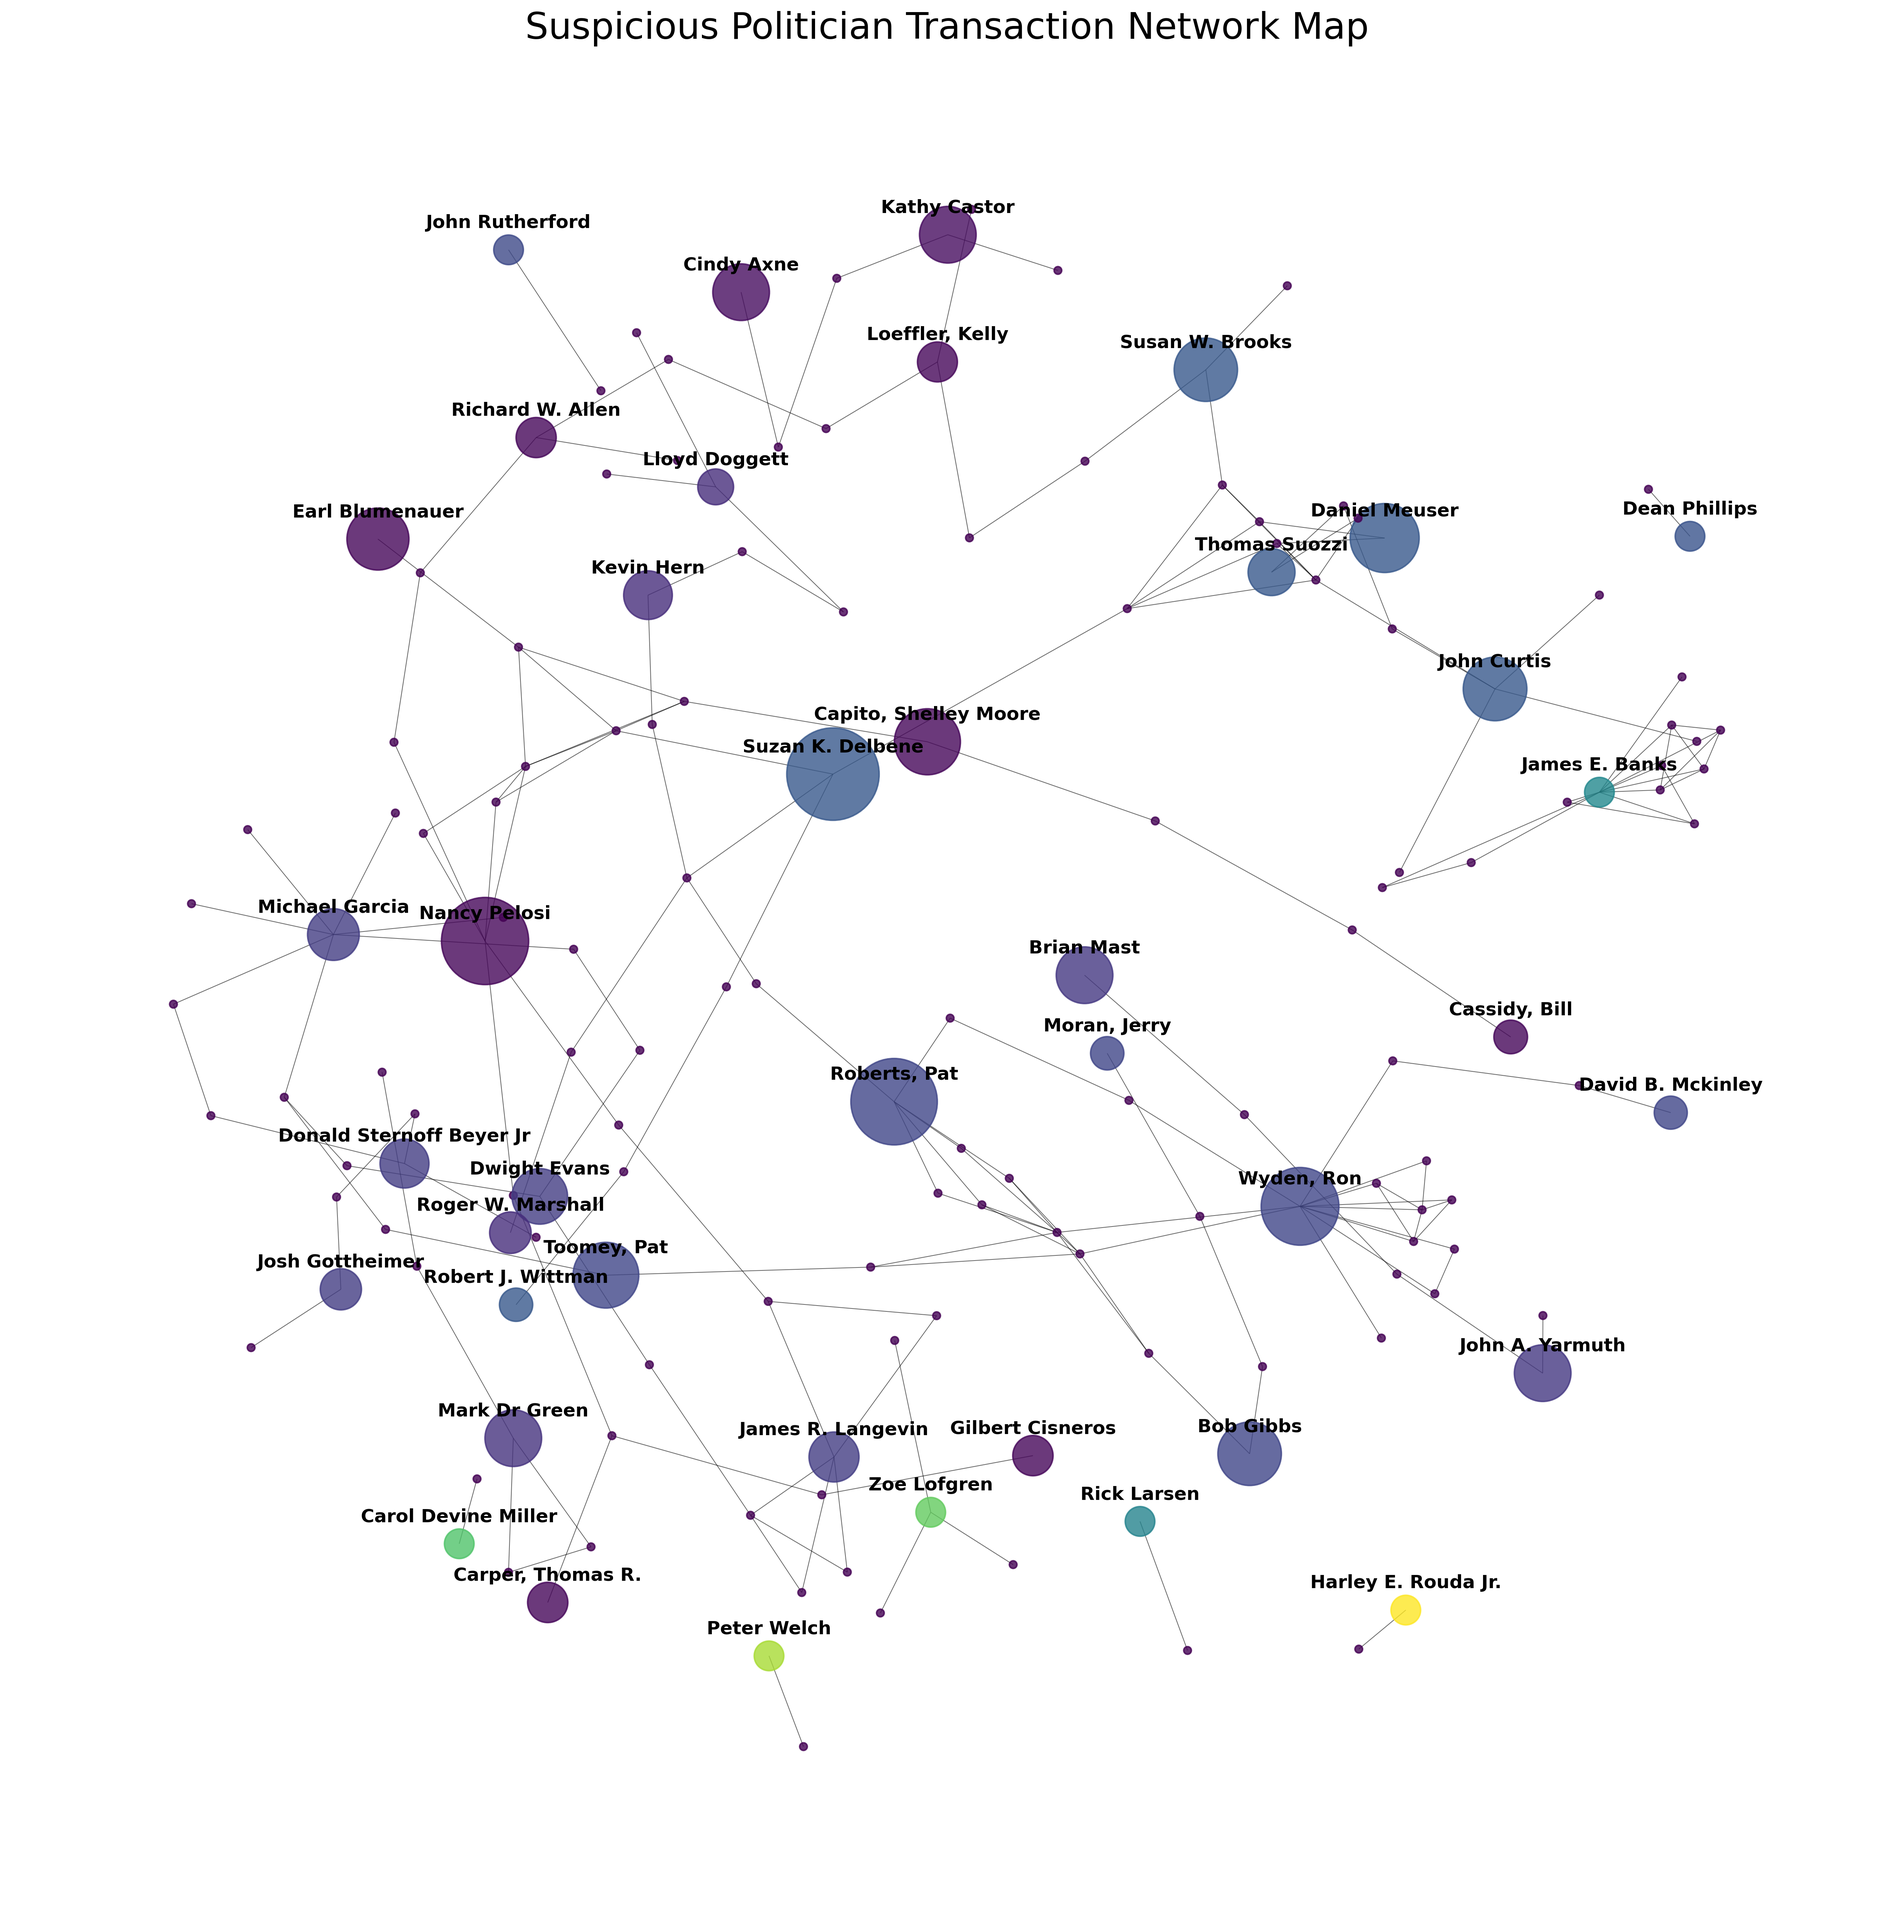
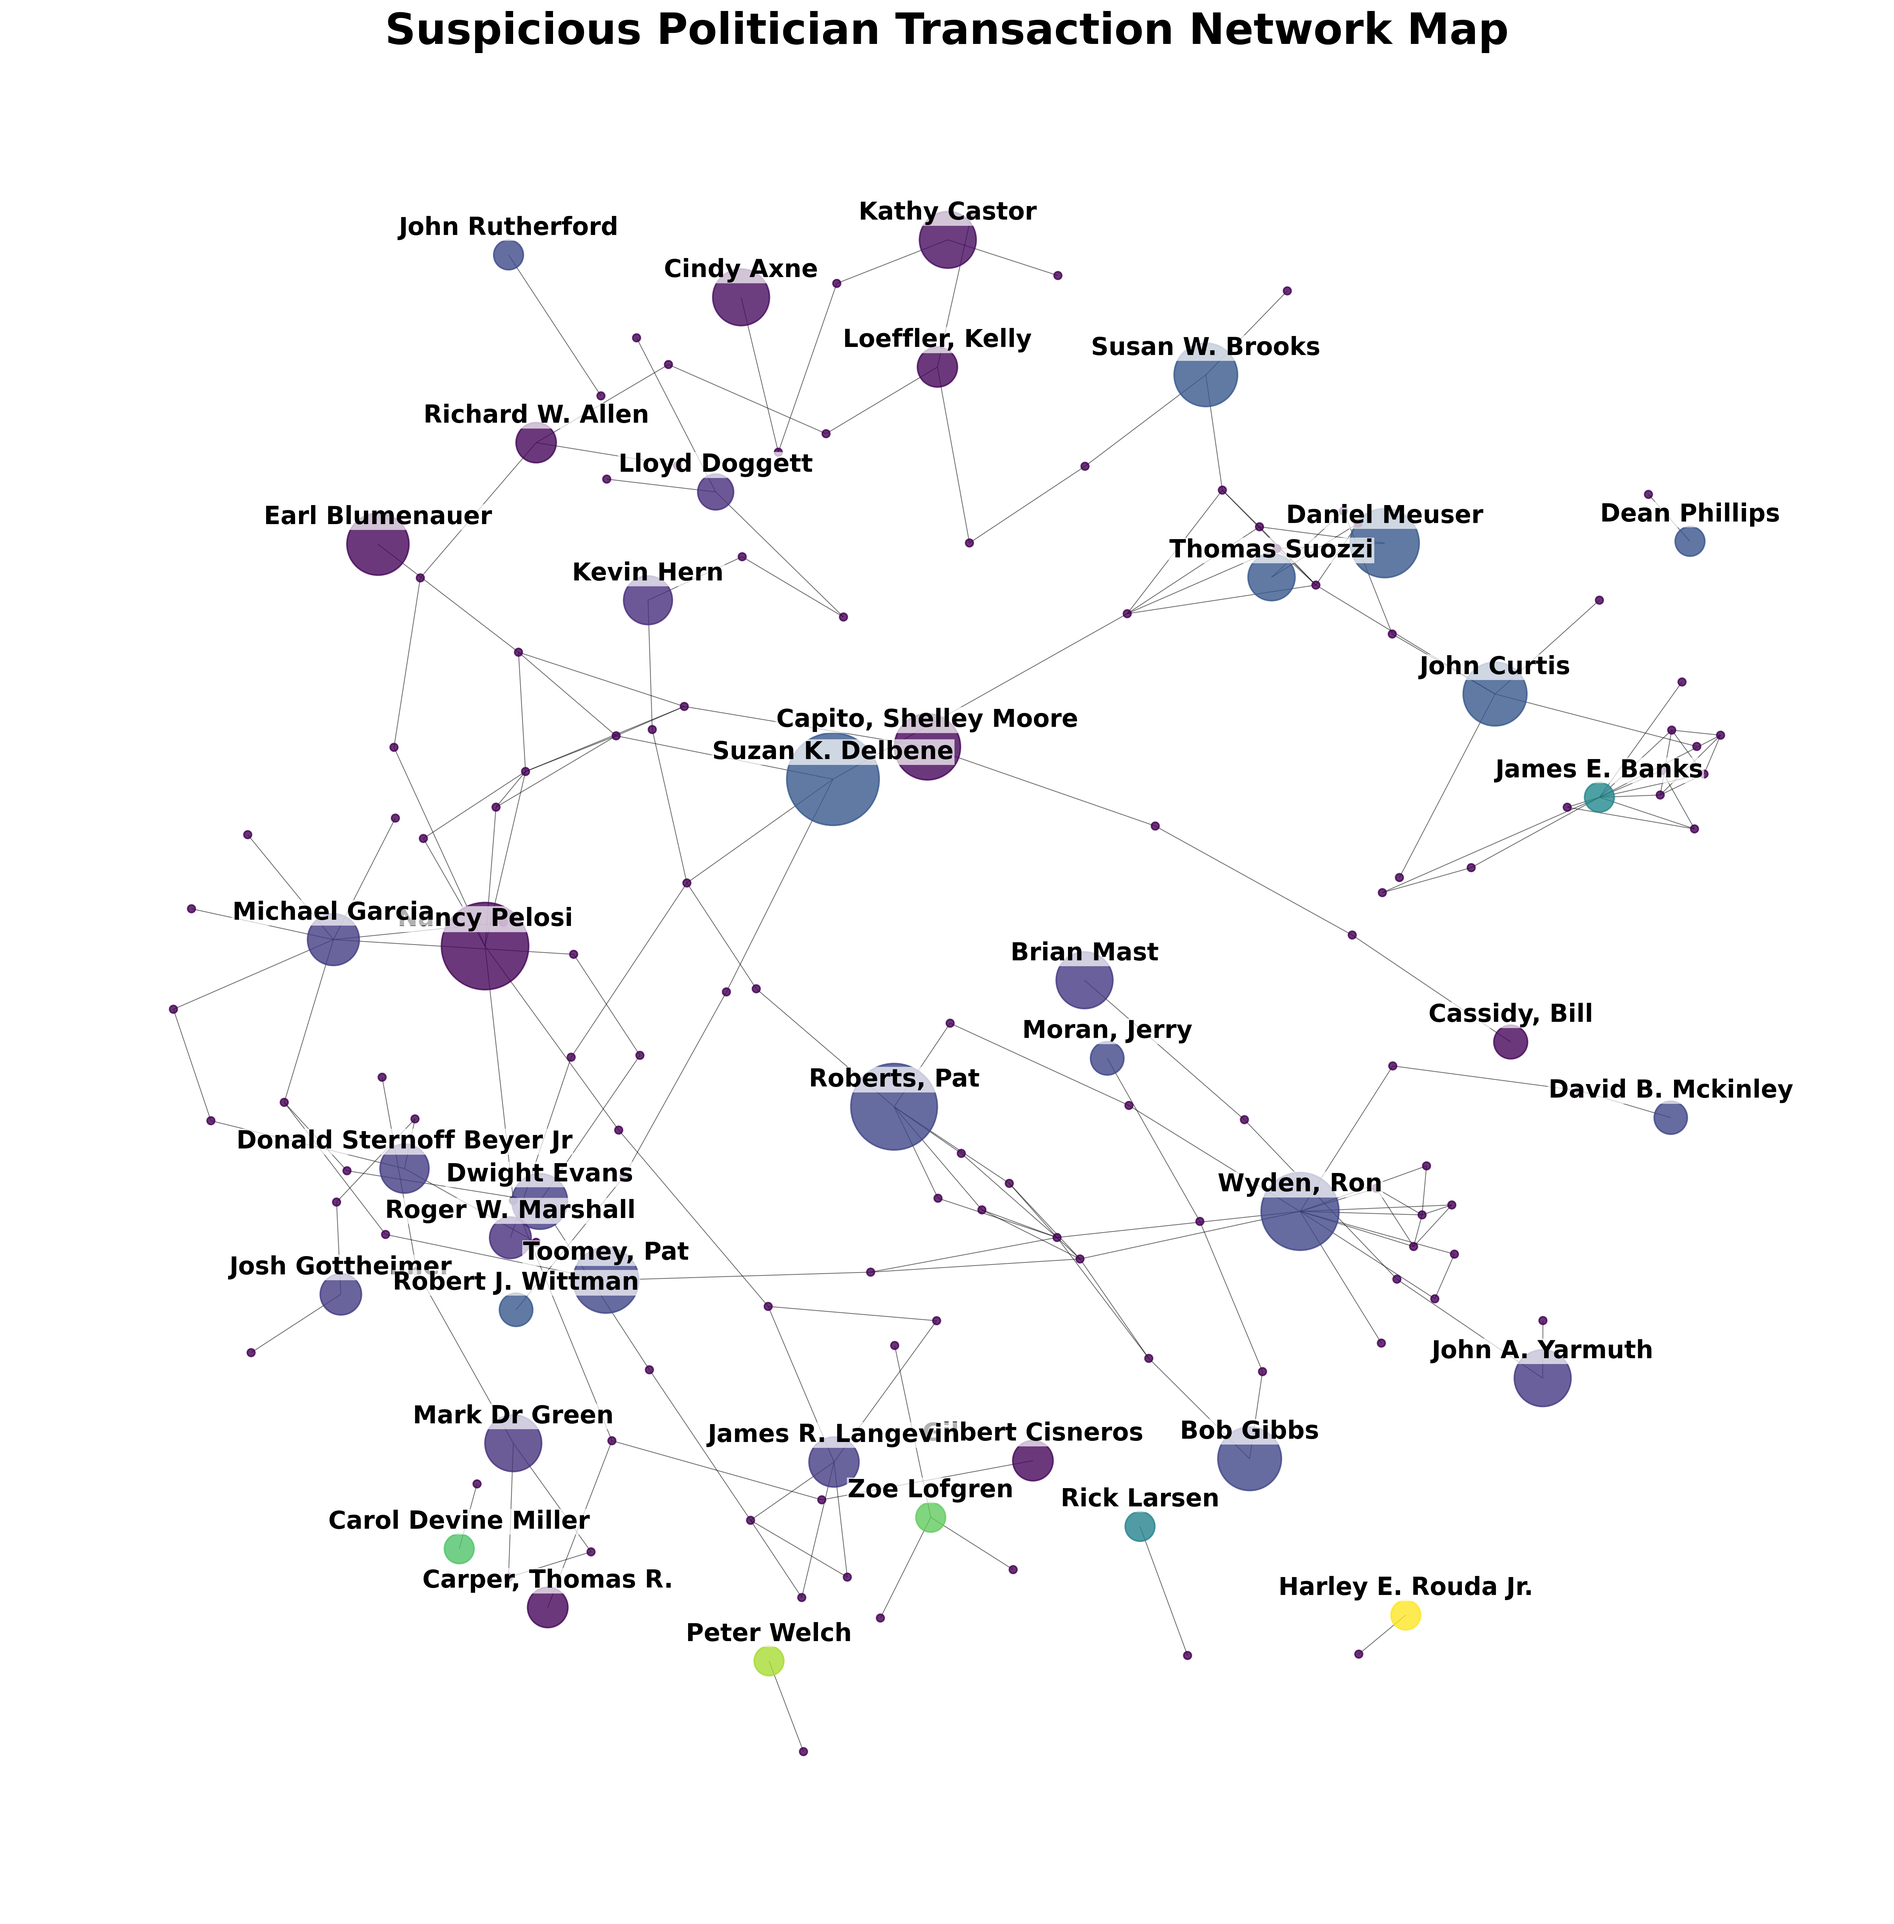
WIP

diff --git a/final/suspicious_transactions_network/suspicious_transactions_network_plots.py b/final/suspicious_transactions_network/suspicious_transactions_network_plots.py
@@ -41,8 +41,6 @@ def plot_full_network(G):
         for s, t in zip(pagerank_scores, node_types)
     ]
 
-    # --- EDGES MADE MUCH DARKER ---
-    # Increased alpha to 0.6 and changed color to black for high contrast.
     nx.draw_networkx_edges(H, pos, alpha=0.6, edge_color='black', width=0.5)
 
     politician_nodes = [n for n, d in H.nodes(data=True) if d.get('type') == 'politician']
@@ -53,13 +51,14 @@ def plot_full_network(G):
                            node_size=node_sizes, alpha=0.8)
 
     labels = {n: n for n in politician_nodes}
-
     label_pos = {k: (v[0], v[1] + 0.035) for k, v in pos.items()}
 
-    nx.draw_networkx_labels(H, label_pos, labels=labels, font_size=12,
-                            font_weight='bold')
+    # --- TEXT BIGGER, BOLDER, AND WITH BACKGROUND ---
+    nx.draw_networkx_labels(H, label_pos, labels=labels, font_size=16,
+                            font_weight='bold',
+                            bbox=dict(facecolor='white', edgecolor='none', alpha=0.7, pad=0.5))
 
-    plt.title("Suspicious Politician Transaction Network Map", fontsize=24)
+    plt.title("Suspicious Politician Transaction Network Map", fontsize=28, fontweight='bold')
     plt.axis('off')
 
     output_path = os.path.join(PLOTS_DIR, "suspicious_full_network_map.png")
@@ -93,10 +92,18 @@ def plot_top_influencers(G):
     sns.barplot(x='PageRank', y='Politician', data=df, hue='Community',
                 dodge=False, palette='viridis')
 
-    plt.title("Top Most Suspicious Influential Politicians", fontsize=16)
-    plt.xlabel("PageRank Score", fontsize=12)
-    plt.ylabel("Politician", fontsize=12)
-    plt.legend(title='Community ID')
+    # --- TEXT BIGGER & BOLDER ---
+    plt.title("Top Most Suspicious Influential Politicians", fontsize=20, fontweight='bold')
+    plt.xlabel("PageRank Score", fontsize=14, fontweight='bold')
+    plt.ylabel("Politician", fontsize=14, fontweight='bold')
+
+    # Increase tick label size for readability
+    plt.xticks(fontsize=12)
+    plt.yticks(fontsize=12)
+
+    legend = plt.legend(title='Community ID', fontsize=12)
+    plt.setp(legend.get_title(), fontsize=14, fontweight='bold')
+
     plt.tight_layout()
 
     output_path = os.path.join(PLOTS_DIR, "suspicious_top_influencers.png")
